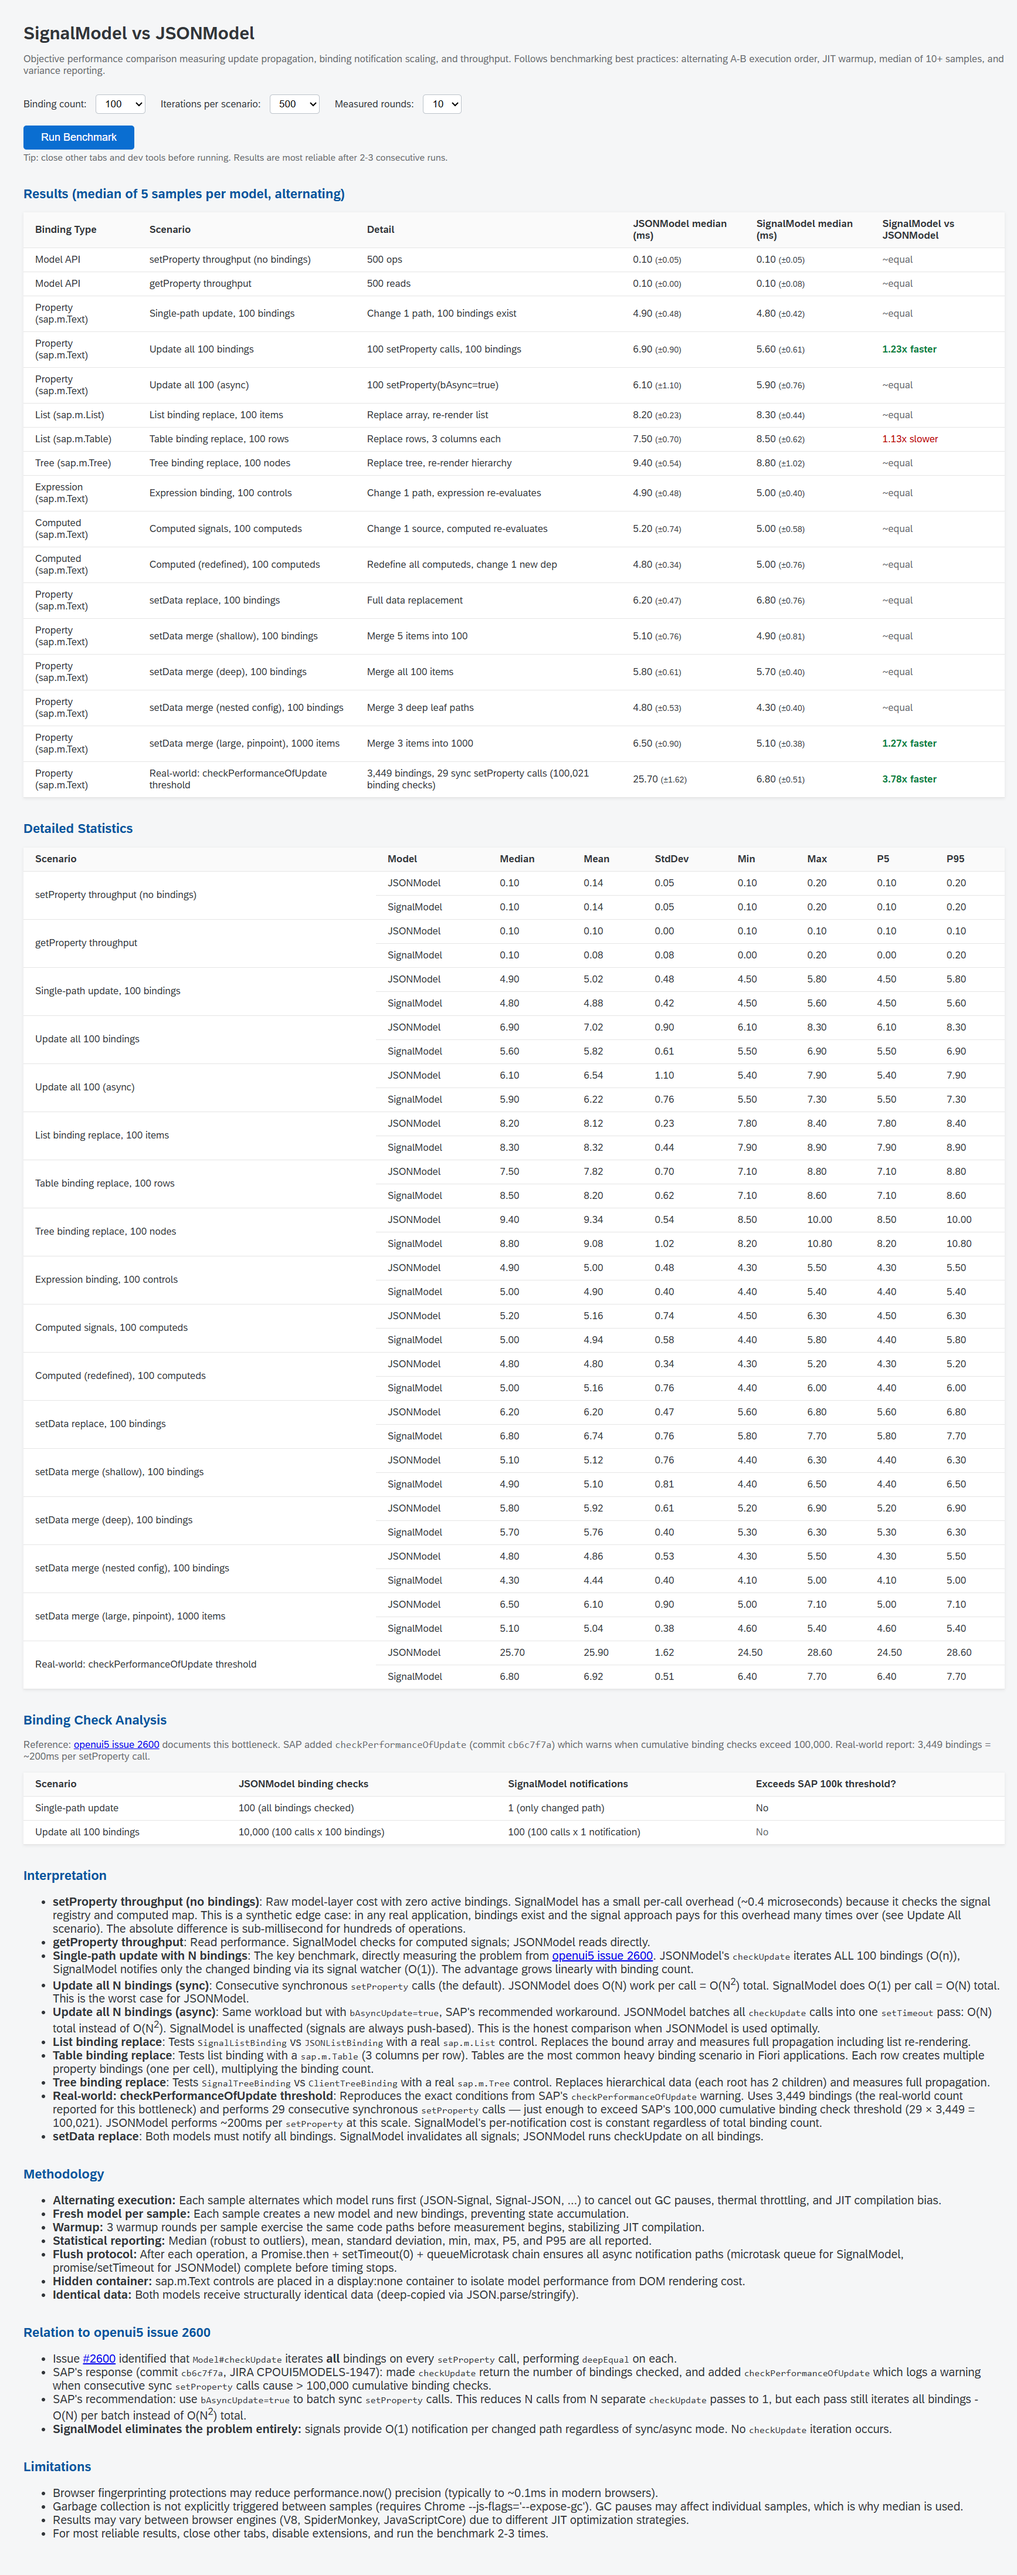
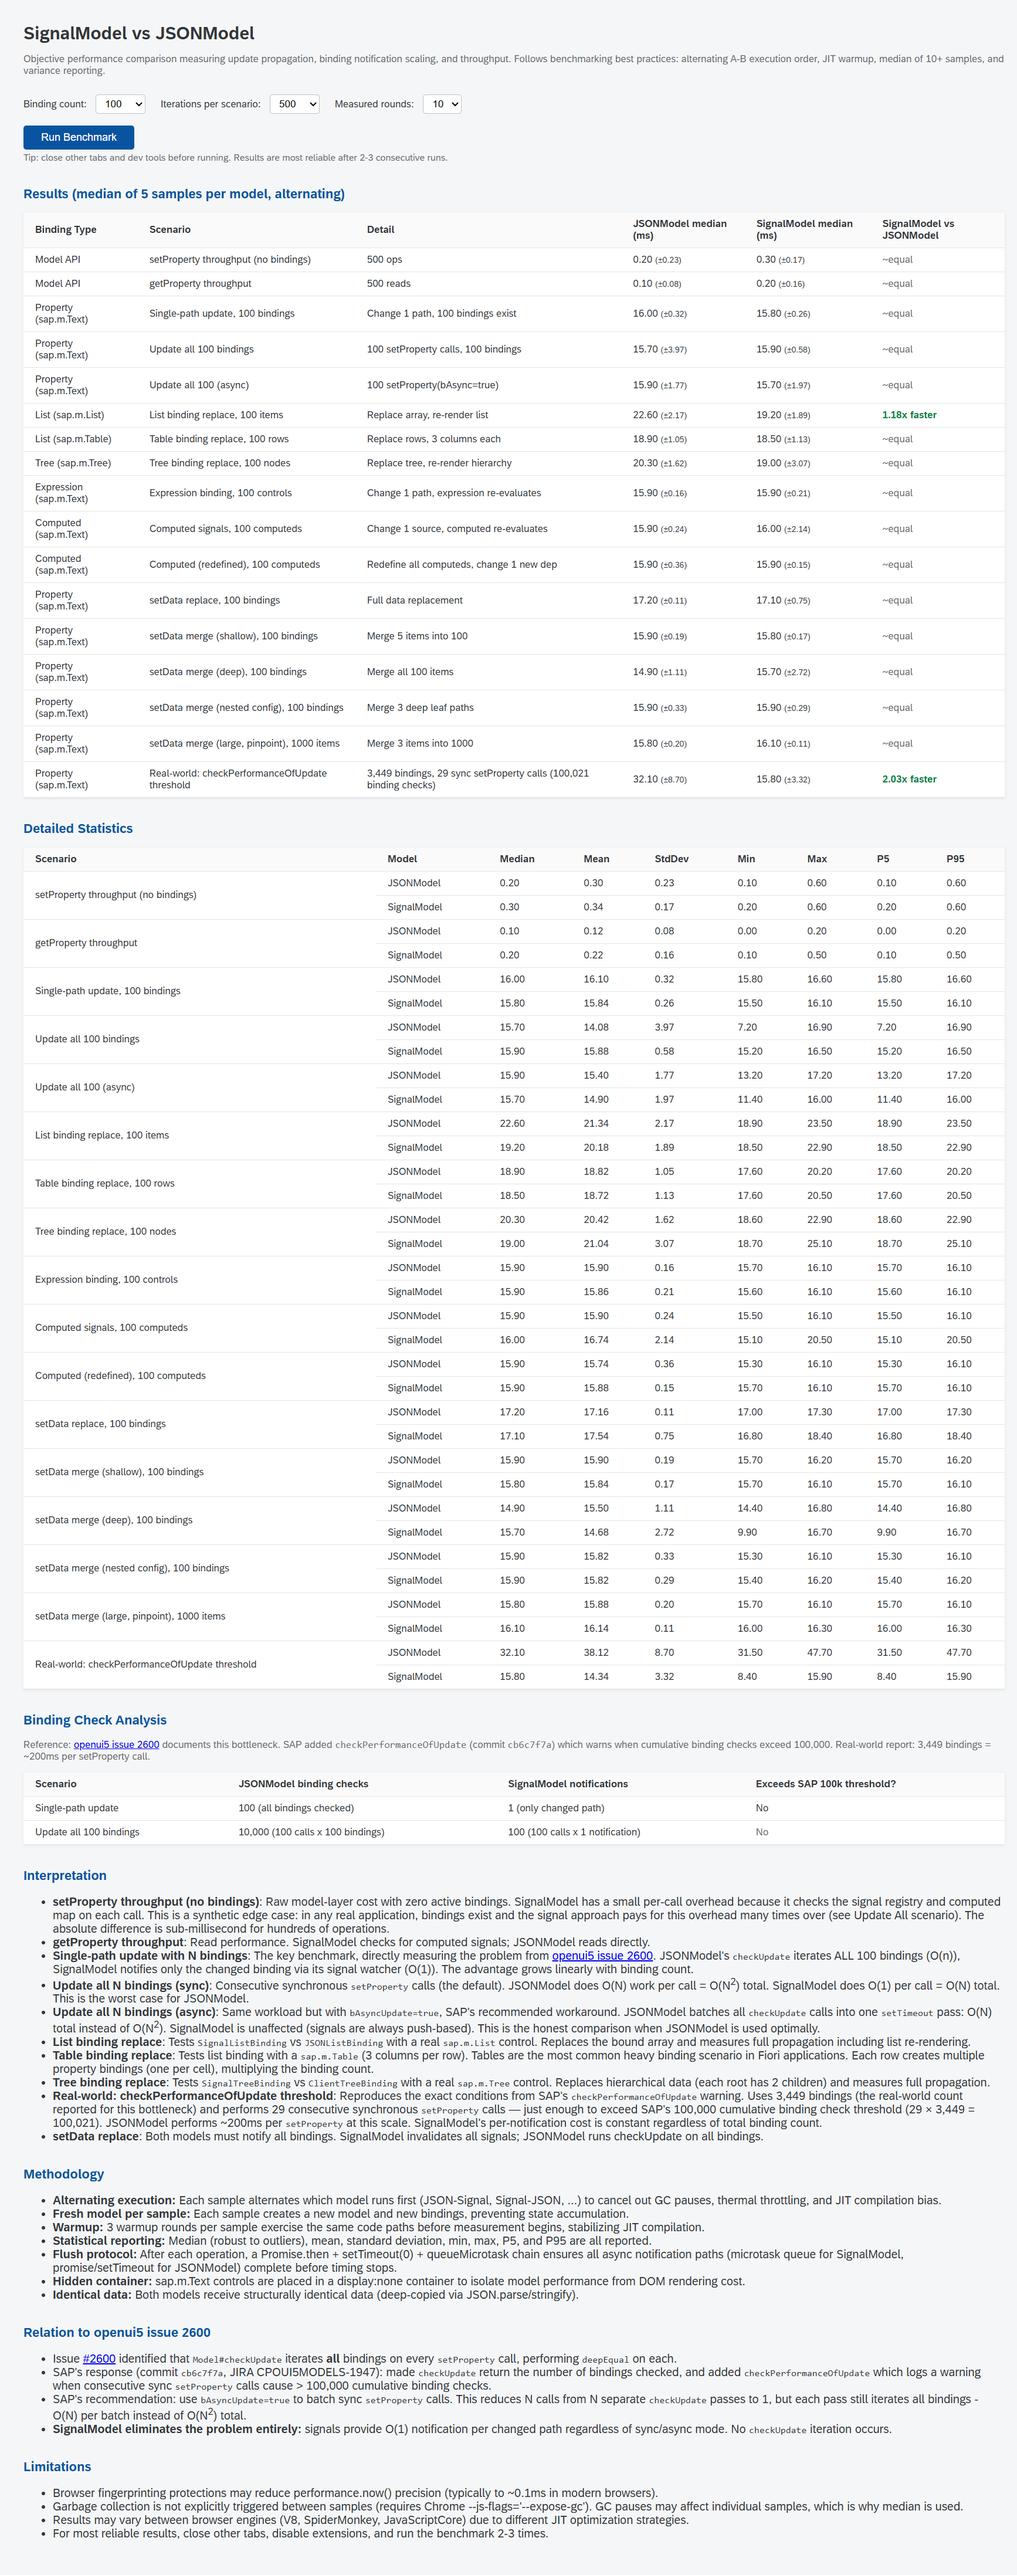
docs(bench): explain Watcher re-arm cycle in async scenario interpretation
The benchmark HTML page explained the async scenario numbers but did not
explain why SignalModel is slower: the TC39 Watcher API requires an
explicit re-arm cycle (signal.get() + watcher.watch()) per binding per
flush, which cannot be optimized away. This is inherent to the API
design, not a polyfill limitation.

Retake all 4 reference screenshots with the updated interpretation text.

diff --git a/packages/lib/test/benchmark/index.html b/packages/lib/test/benchmark/index.html
@@ -1755,8 +1755,14 @@
           "Same workload but with <code>bAsyncUpdate=true</code>, SAP's recommended workaround. ";
         html +=
           "JSONModel batches all <code>checkUpdate</code> calls into one <code>setTimeout</code> pass: O(N) total instead of O(N<sup>2</sup>). ";
-        html += "SignalModel is unaffected (signals are always push-based). ";
-        html += "This is the honest comparison when JSONModel is used optimally.</li>";
+        html +=
+          "<strong>SignalModel is slower here</strong> because of the TC39 Signals <em>Watcher re-arm cycle</em>. " +
+          "After a signal notifies its watcher, the watcher must be explicitly re-armed: " +
+          "<code>signal.get()</code> to acknowledge the change, then <code>watcher.watch()</code> to re-subscribe. " +
+          "This 2-step overhead runs once per binding per flush and is inherent to the " +
+          "<a href='https://github.com/tc39/proposal-signals'>Watcher API design</a> (not a polyfill limitation). " +
+          "JSONModel's batched <code>deepEqual</code> comparison is a single function call per binding with no re-registration overhead. " +
+          "The gap grows with binding count (~1.5x at 1000, ~2.5x at 2000) because the re-arm cost is per-binding.</li>";
         html += "<li><strong>List binding replace</strong>: ";
         html +=
           "Tests <code>SignalListBinding</code> vs <code>JSONListBinding</code> with a real <code>sap.m.List</code> control. " +
